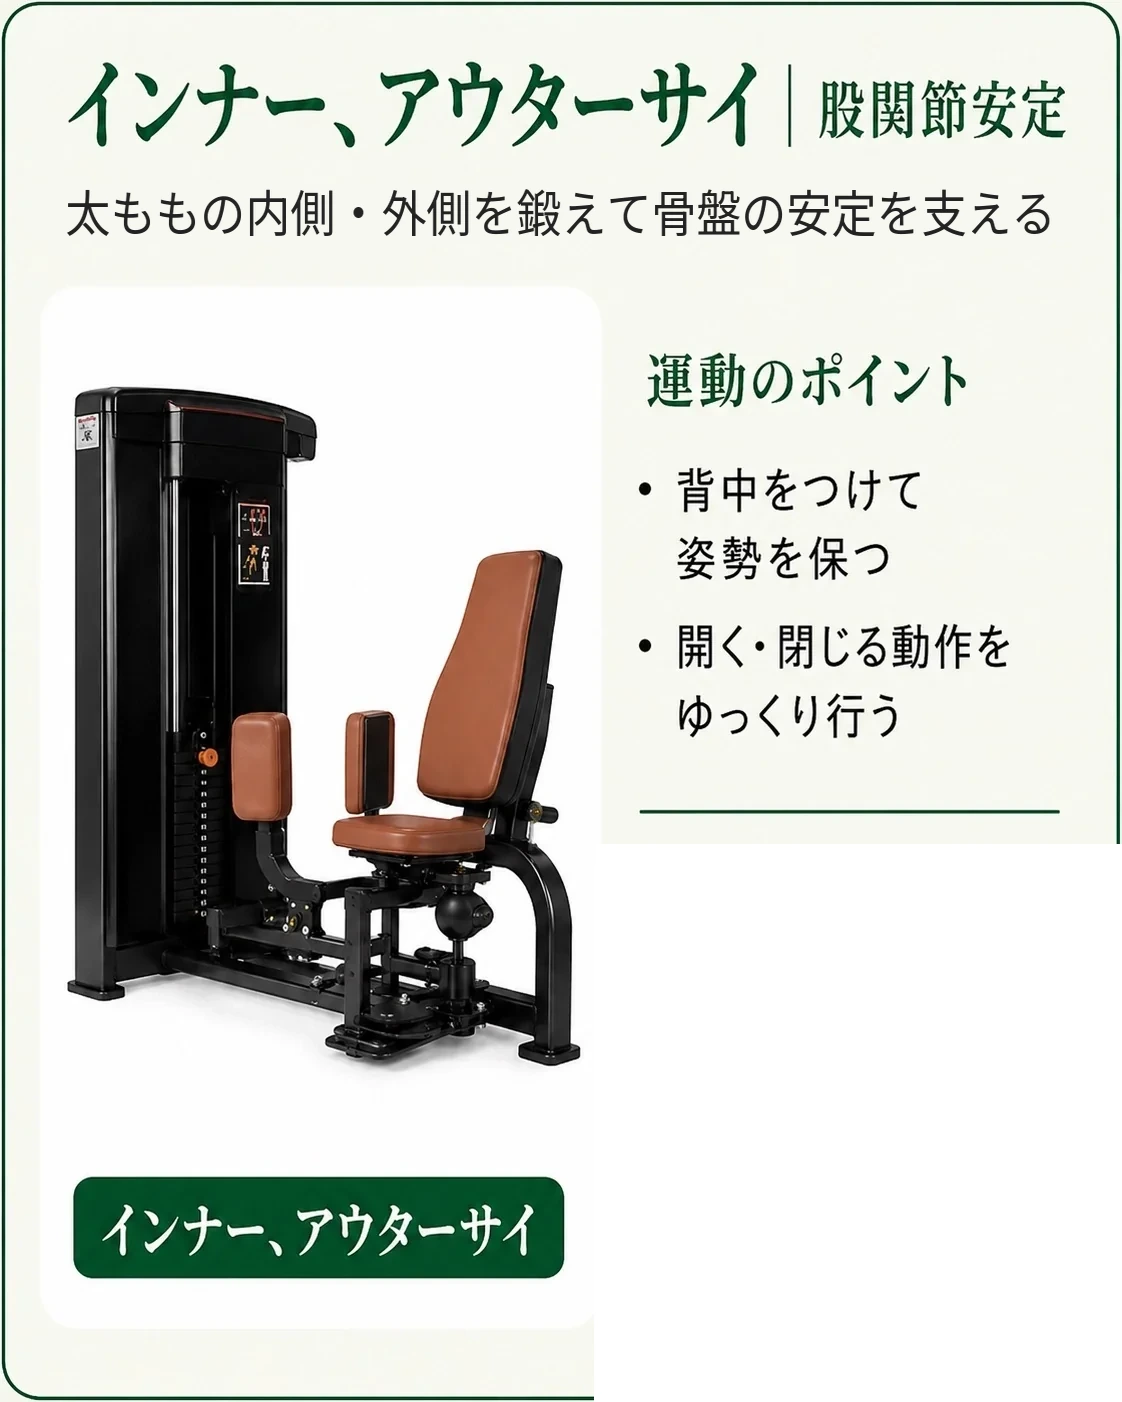
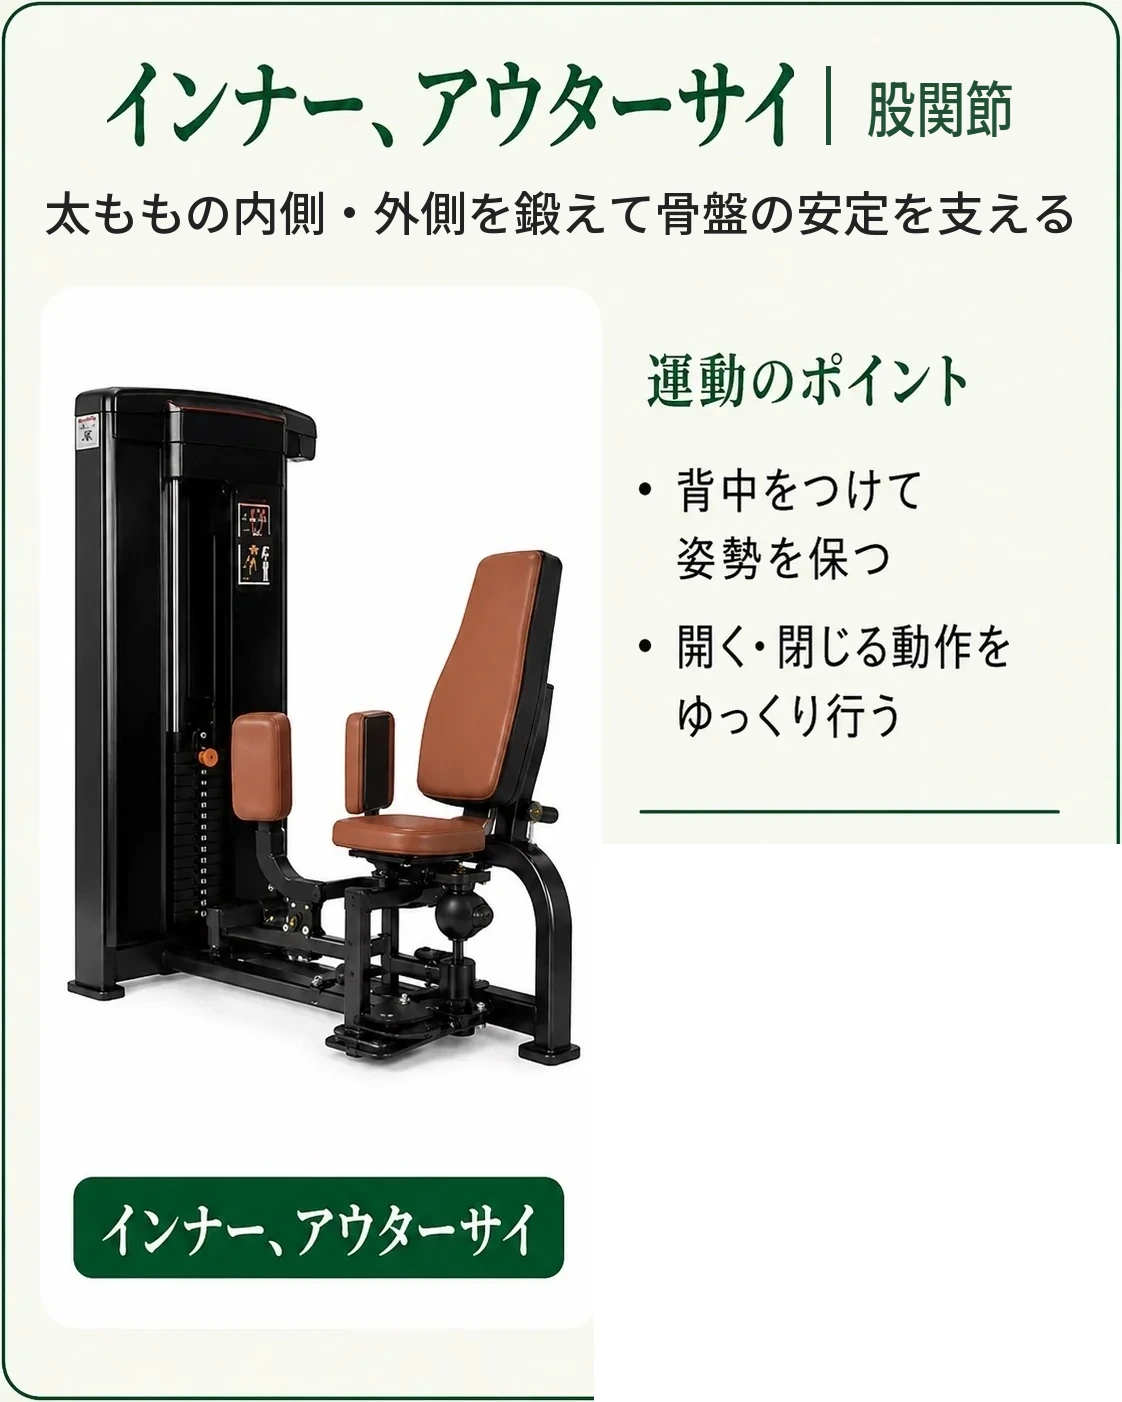
Rename the tag on every machine card to a body part
先方が出力レポートに赤で1枚ずつ指定（IMG_3374）。タイトル右のタグを部位名にする。
胸まわり伸ばし→胸部／肩まわり伸ばし→肩部／股関節伸ばし→股関節／
肩甲骨を寄せる→背部／胸背バランス→背部・胸部／脚の強化→ふともも。
指定が無かった10枚も同じ規則で揃えた（体幹安定→腹部、骨盤安定→臀部 など）。

- マシン名の絵は先方のものをそのまま切り取って使い、描き直すのはタグだけ。
  タグは短くなるので、マシン名・罫線・タグをひとかたまりとして中央に置き直す
- 差分は画像の上部20%のみ。それ以外の画素は元画像と完全一致（16枚とも0px）
- 縦罫線の検出を、行高に対する比率を緩めながら探す形に。にじみで左右に1〜5画素
  残るカードがあり、空白判定を厳密にすると2枚で罫線を見失っていた

「ふともも」は先方がレッグプレスの1枚だけに書いた語。表と色分け図は「太もも」で
表記が揺れているが、指定を優先してそのまま入れている（確認待ち）。

Claude-Session: https://claude.ai/code/session_01UmzzeZxLjjBZmVRgXoNJge

Changed region(s): [[0.0312, 0.0307, 0.967, 0.184]]

diff --git a/UGOQ_RULEBOOK.md b/UGOQ_RULEBOOK.md
@@ -176,7 +176,39 @@ L3・L4 は元から①が下肢種目で、先頭が動かない。
 | ラクレッチ、アダクター | 内ももを伸ばして… | 太ももの内側を伸ばして… |
 | ラクレッチ、チェスト | 胸筋群を伸ばして巻き肩をリセット | 胸を伸ばして巻き肩をリセット |
 
-触っていないもの。**「肩甲骨」「体幹」「骨盤」「背骨」**は普通に通じる言葉なので、
+### タイトル右のタグも部位名にした（2026-09-09・IMG_3374）
+
+先方が出力レポートに赤で1枚ずつ指定してきたので、そのとおりに差し替えた。
+指定が無かった10枚も、同じ規則（タグ＝効かせる部位の名前）で揃えてある。
+
+| カード | 変更前 | 変更後 | 出所 |
+|---|---|---|---|
+| ラクレッチ、チェスト | 胸まわり伸ばし | 胸部 | 先方指定 |
+| ラクレッチ、ショルダー | 肩まわり伸ばし | 肩部 | 先方指定 |
+| ラクレッチ、ヒップ | 股関節伸ばし | 股関節 | 先方指定 |
+| シーテッドロウ | 肩甲骨を寄せる | 背部 | 先方指定 |
+| ペックフライ、リアデルト | 胸背バランス | 背部・胸部 | 先方指定 |
+| シーテッドレッグプレス | 下肢強化 | ふともも | 先方指定 |
+| アブドミナル | 体幹安定 | 腹部 | 同じ規則で |
+| ラットプルダウン | 背中強化 | 背部 | 同じ規則で |
+| ヒップスラスト | 骨盤安定 | 臀部 | 同じ規則で |
+| バックエクステンションベンチ | 体幹伸展 | 背部・腰部 | 同じ規則で |
+| インナー、アウターサイ | 股関節安定 | 股関節 | 同じ規則で |
+| ラクレッチ、アダクター | 股関節伸ばし | 股関節 | 同じ規則で |
+| ラクレッチ、ツイスター | 体幹ひねり | 腰部・背部 | 同じ規則で |
+| レッグエクステンション | 太もも前強化 | 太ももの前 | 同じ規則で |
+| シーテッドレッグカール | もも裏強化 | 太ももの後ろ | 同じ規則で |
+| カーフレイズ | ふくらはぎ強化 | ふくらはぎ | 同じ規則で |
+
+**マシン名（ラクレッチ、チェスト …）の絵は先方のものをそのまま切り取って使い、
+描き直すのはタグだけ**にしている。タグは短くなるので、マシン名・罫線・タグを
+ひとかたまりとして中央に置き直す。差分は画像の上部20%だけで、それ以外の画素は
+元画像と完全に一致することを16枚すべてで確認済み。
+
+先方が「ふともも」と書いたのはシーテッドレッグプレスの1枚のみ。表と色分け図は
+「太もも」なので表記が揺れている。先方指定を優先して残してあり、揃えるかは確認待ち。
+
+触っていないもの。**「体幹」「骨盤」「背骨」**は普通に通じる言葉なので、
 先方のカードのデザインを必要以上に書き換えない方針で残した。**「膝」**も、
 仕様書①の姿勢分析マスターが「骨盤・膝・足部正常」と膝表記なのでそちらに合わせている。
 **「VMOを意識」**（仕様書④ X脚のレッグエクステンション）は先方の文言そのままなので、
